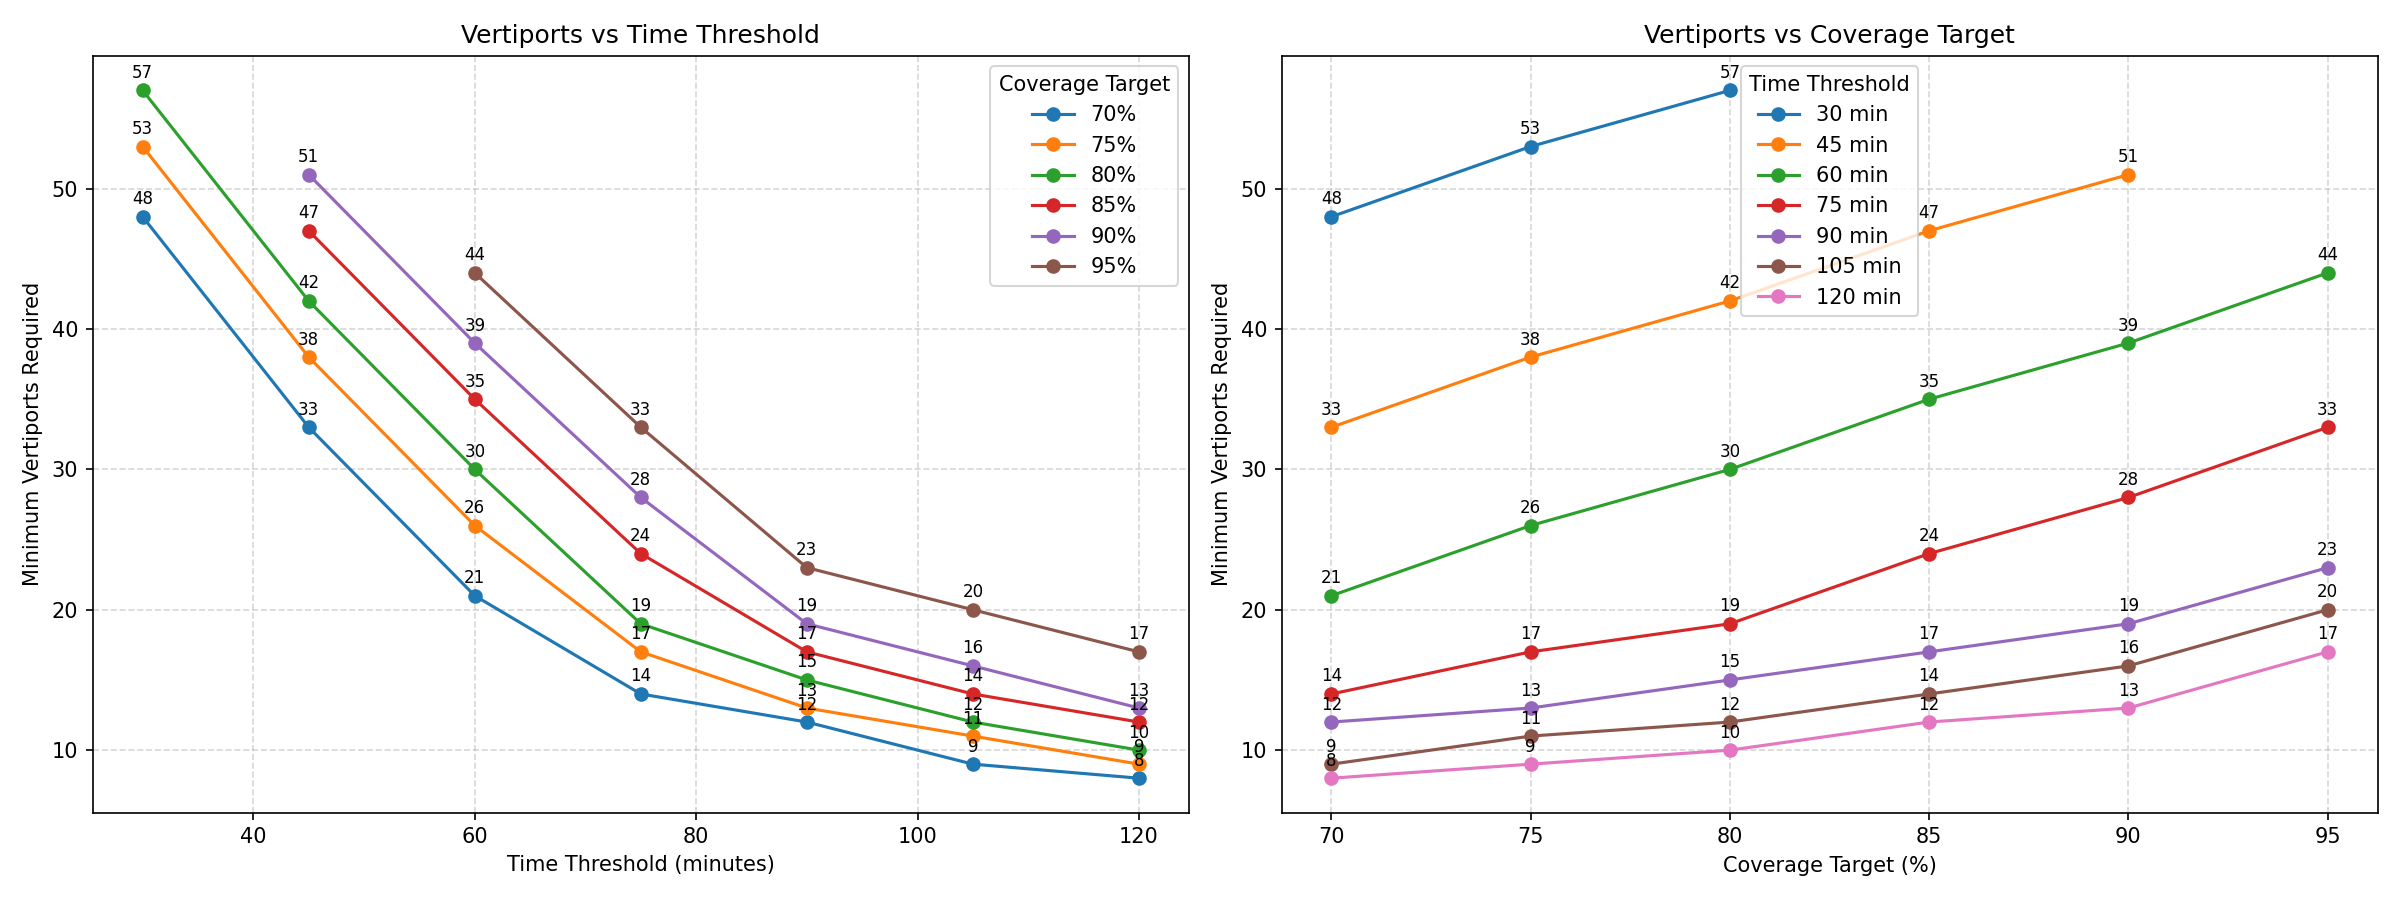
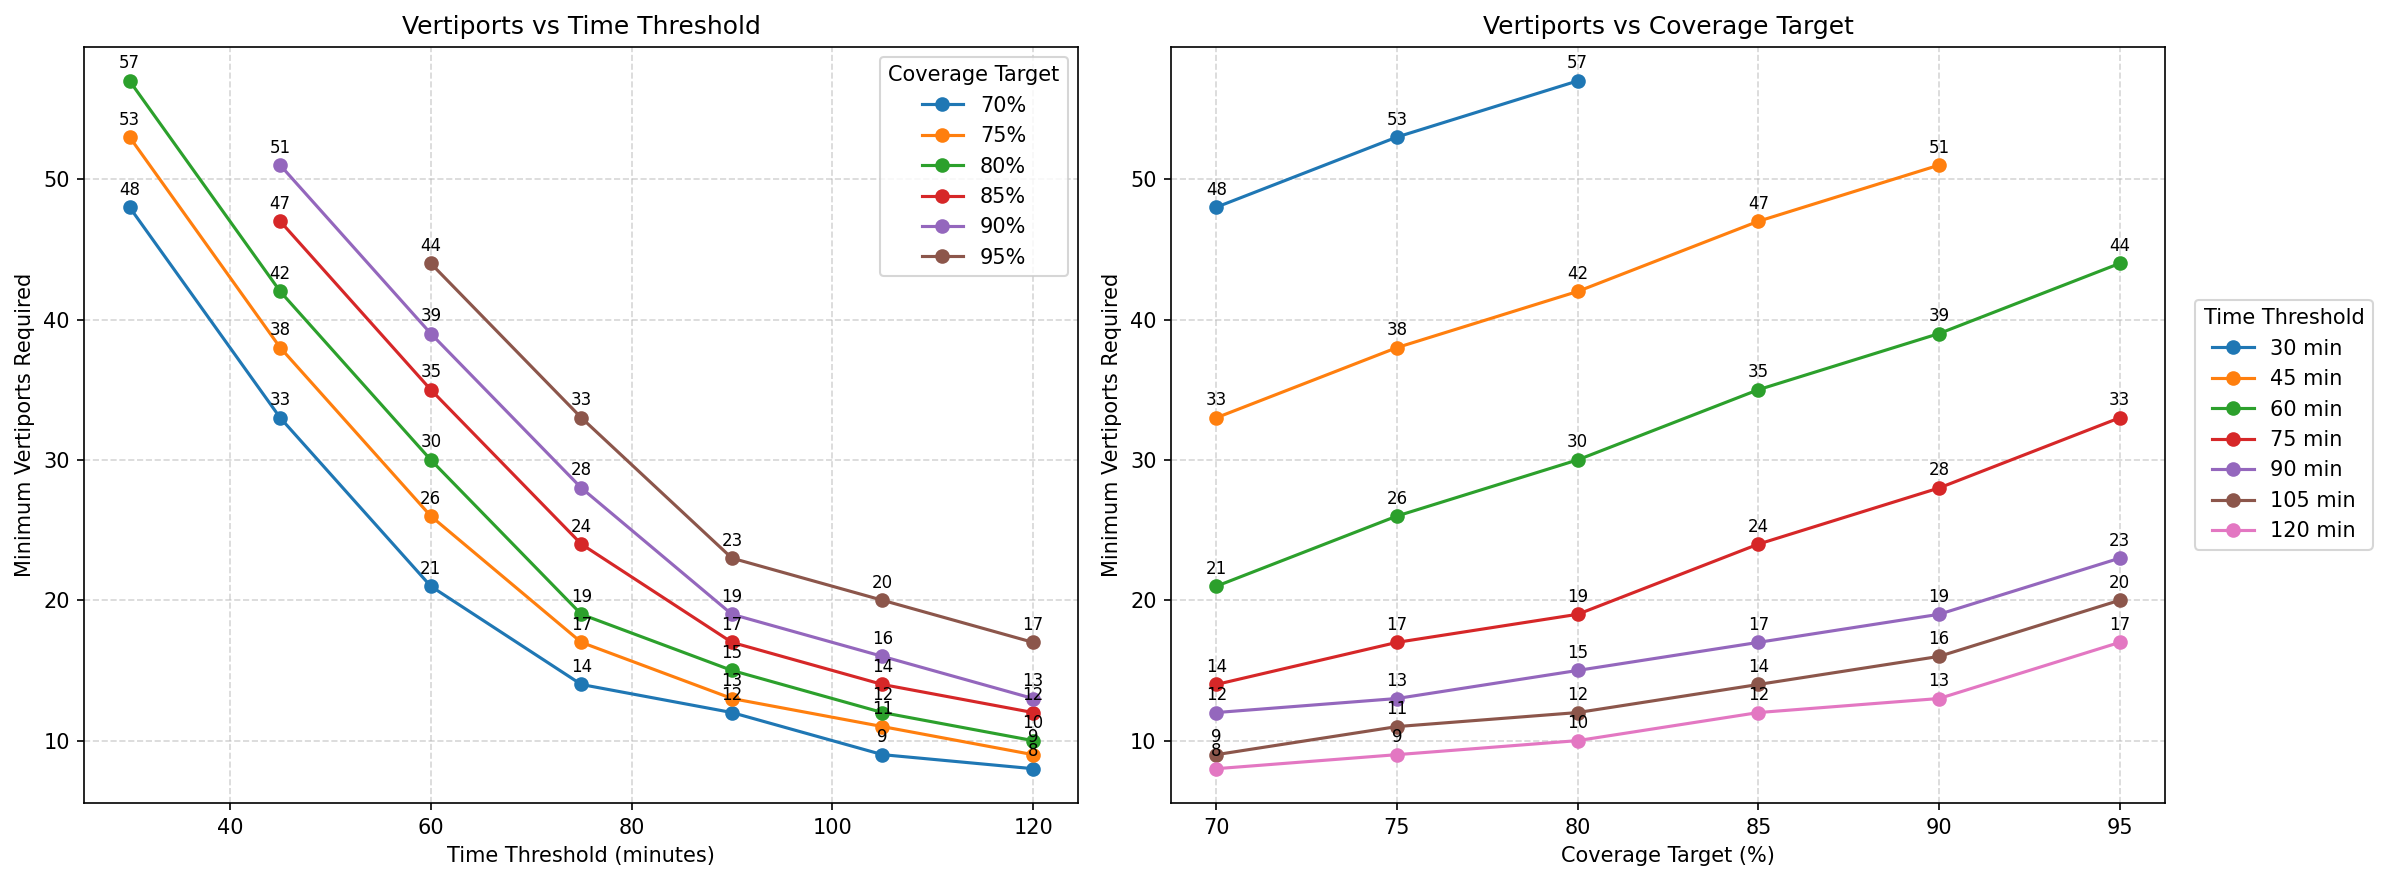
Changed viz

diff --git a/model/Combined Parameters/updated_parametric_model.py b/model/Combined Parameters/updated_parametric_model.py
@@ -146,9 +146,9 @@ air_time = {j: d_ih.loc[j].min() / UAV_SPEED_KMH * 60 for j in candidate_coords}
 
 def build_coverage_matrix(demand_coords, candidate_coords, road_time_lookup, d_ih, UAV_SPEED_KMH, T):
     a = {}
-    for i in demand_coords:
-        for j in candidate_coords:
-            a[i, j] = 1 if road_time_lookup[i, j] + air_time[j] <= T else 0
+    for i in candidate_coords:          # i = vertiport
+        for j in demand_coords:         # j = SA2
+            a[i, j] = 1 if road_time_lookup[j, i] + air_time[i] <= T else 0
     return a
 
 # ─────────────────────────────────────────────────────────────
@@ -212,35 +212,35 @@ def combined_cost(j):
 # ─────────────────────────────────────────────────────────────
 # PYOMO MODEL
 # ─────────────────────────────────────────────────────────────
-
 def run_model(a, demand_coords, candidate_coords, alpha, cost, lam=RISK_LAMBDA):
-    I = list(demand_coords.keys())
-    J = list(candidate_coords.keys())
-    n_req = ceil(alpha * len(I) - 1e-9)        
+    I = list(candidate_coords.keys())   # vertiports
+    J = list(demand_coords.keys())      # SA2s
+    n_req = ceil(alpha * len(J) - 1e-9)
 
     mod = ConcreteModel()
     mod.I = Set(initialize=I)
     mod.J = Set(initialize=J)
-    mod.y = Var(mod.J, domain=Binary)
-    mod.z = Var(mod.I, domain=Binary)
+    mod.y = Var(mod.I, domain=Binary)   # vertiport i is built
+    mod.z = Var(mod.J, domain=Binary)   # SA2 j is covered
 
     mod.obj = Objective(
-        expr=sum(mod.y[j] for j in J) + lam * sum(cost[j] * mod.y[j] for j in J),
+        expr=sum(mod.y[i] for i in I) + lam * sum(cost[i] * mod.y[i] for i in I),
         sense=minimize
     )
 
-    mod.cov = Constraint(mod.I, rule=lambda mod, i:
-        mod.z[i] <= sum(a[i, j] * mod.y[j] for j in J))
+    # SA2 j can only be covered if a selected vertiport reaches it in time
+    mod.cov = Constraint(mod.J, rule=lambda mod, j:
+        mod.z[j] <= sum(a[i, j] * mod.y[i] for i in I))
 
-    mod.demand = Constraint(expr=sum(mod.z[i] for i in I) >= n_req)
+    mod.demand = Constraint(expr=sum(mod.z[j] for j in J) >= n_req)
 
     result = SolverFactory('cbc').solve(mod)
 
     if result.solver.termination_condition == TerminationCondition.optimal:
-        selected  = [j for j in J if value(mod.y[j]) > 0.5]
-        covered   = [i for i in I if any(a[i, j] == 1 for j in selected)]
+        selected  = [i for i in I if value(mod.y[i]) > 0.5]
+        covered   = [j for j in J if any(a[i, j] == 1 for i in selected)]
         cov_set   = set(covered)
-        uncovered = [i for i in I if i not in cov_set]
+        uncovered = [j for j in J if j not in cov_set]
         return 'optimal', selected, covered, uncovered
     else:
         return 'infeasible', [], [], []
@@ -251,7 +251,7 @@ def run_model(a, demand_coords, candidate_coords, alpha, cost, lam=RISK_LAMBDA):
 a = build_coverage_matrix(demand_coords, candidate_coords, road_time_lookup, d_ih, UAV_SPEED_KMH, TIME_THRESHOLD)
 
 cost = {j: combined_cost(j) for j in candidate_coords}
-coverable = [i for i in demand_coords if any(a[i, j] == 1 for j in candidate_coords)]
+coverable = [j for j in demand_coords if any(a[i, j] == 1 for i in candidate_coords)]
 
 print(f"\nMax achievable coverage: {len(coverable)}/{len(demand_coords)} = {len(coverable)/len(demand_coords)*100:.1f}%")
 print(f"Requested coverage: {COVERAGE_THRESHOLD*100}%")
@@ -308,52 +308,85 @@ if lambda_analysis:
             total_risk = sum(cost[j] for j in sel)
             avg_risk   = total_risk / len(sel) if sel else 0
             lambda_results.append({
-                'lambda':      lam,
+                'lambda':       lam,
                 'n_vertiports': len(sel),
-                'total_risk':  round(total_risk, 3),
-                'avg_risk':    round(avg_risk, 3),
-                'status':      'optimal'
+                'total_risk':   round(total_risk, 3),
+                'avg_risk':     round(avg_risk, 3),
+                'status':       'optimal'
             })
             print(f"{lam:<10} {len(sel):>12} {total_risk:>12.3f} {avg_risk:>15.3f}")
         else:
             lambda_results.append({'lambda': lam, 'n_vertiports': None, 'total_risk': None, 'avg_risk': None, 'status': 'infeasible'})
             print(f"{lam:<10} {'INFEASIBLE':>12}")
 
-    fig, axes = plt.subplots(1, 2, figsize=(14, 5))
-
+    # collect feasible results
     feasible = [r for r in lambda_results if r['status'] == 'optimal']
-    lam_vals  = [r['lambda']       for r in feasible]
-    n_ports   = [r['n_vertiports'] for r in feasible]
-    t_risk    = [r['total_risk']   for r in feasible]
+    lam_vals = [r['lambda']       for r in feasible]
+    n_ports  = [r['n_vertiports'] for r in feasible]
+    t_risk   = [r['total_risk']   for r in feasible]
 
-    ax1 = axes[0]
-    ax1.plot(lam_vals, n_ports, marker='o', color='steelblue')
-    for x, y in zip(lam_vals, n_ports):
-        ax1.annotate(str(y), (x, y), textcoords="offset points", xytext=(0, 8), ha='center', fontsize=9)
-    ax1.set_xlabel('Lambda (λ)')
-    ax1.set_ylabel('Minimum Vertiports Required')
-    ax1.set_title('Vertiport Count vs Lambda')
-    ax1.grid(True, linestyle='--', alpha=0.5)
+    x      = np.arange(len(lam_vals))          # even spacing kills low-lambda crowding
+    labels = [f'{l:g}' for l in lam_vals]
 
-    ax2 = axes[1]
-    ax2.plot(lam_vals, t_risk, marker='o', color='firebrick')
-    for x, y in zip(lam_vals, t_risk):
-        ax2.annotate(f"{y:.2f}", (x, y), textcoords="offset points", xytext=(0, 8), ha='center', fontsize=9)
-    ax2.set_xlabel('Lambda (λ)')
-    ax2.set_ylabel('Total Risk of Selected Sites')
-    ax2.set_title('Total Network Risk vs Lambda')
-    ax2.grid(True, linestyle='--', alpha=0.5)
+    fig, (ax1, ax2) = plt.subplots(1, 2, figsize=(15, 5.5))
 
-    plt.suptitle(f'Lambda Sensitivity | T={TIME_THRESHOLD} min | Coverage={COVERAGE_THRESHOLD*100:.0f}%', fontsize=12)
+    # --- Panel 1: count + risk vs lambda on a categorical x-axis ---
+    ax1b = ax1.twinx()
+    l1, = ax1.plot(x, n_ports, 'o-',  color='steelblue', zorder=3, label='Vertiports')
+    l2, = ax1b.plot(x, t_risk, 's--', color='firebrick', zorder=3, label='Total risk')
+
+    ax1.set_xticks(x)
+    ax1.set_xticklabels(labels)
+    ax1.set_xlabel('Risk weight λ (0 = ignore risk)')
+    ax1.set_ylabel('Minimum vertiports', color='steelblue')
+    ax1b.set_ylabel('Total operational risk (0-1 per site, summed)', color='firebrick')
+    ax1.tick_params(axis='y', colors='steelblue')
+    ax1b.tick_params(axis='y', colors='firebrick')
+    ax1.set_ylim(min(n_ports) - 1, max(n_ports) + 1)   # pad so a flat line isn't glued to the frame
+
+    # label the count only when it changes -> no stacked duplicates
+    prev = None
+    for xi, p in zip(x, n_ports):
+        if p != prev:
+            ax1.annotate(str(p), (xi, p), textcoords='offset points',
+                         xytext=(0, 10), ha='center', color='steelblue', fontsize=9)
+        prev = p
+
+    ax1.set_title('Vertiport count and total risk vs λ')
+    ax1.grid(True, linestyle='--', alpha=0.4)
+    ax1.legend(handles=[l1, l2], loc='center left')
+
+    # --- Panel 2: trade-off, one label per distinct (count, risk) outcome ---
+    groups = {}
+    for l, p, rk in zip(lam_vals, n_ports, t_risk):
+        groups.setdefault((p, round(rk, 3)), []).append(l)
+
+    pts = sorted(groups.items(), key=lambda kv: (kv[0][0], -kv[0][1]))   # by count, then risk high->low
+    gx = [p  for (p, rk), _ in pts]
+    gy = [rk for (p, rk), _ in pts]
+    ax2.plot(gx, gy, 'o-', color='seagreen', zorder=3)
+
+    for (p, rk), ls in pts:
+        tag = f'λ={ls[0]:g}' if len(ls) == 1 else f'λ={min(ls):g}–{max(ls):g}'
+        ax2.annotate(tag, (p, rk), textcoords='offset points',
+                     xytext=(8, 8), ha='left', fontsize=9)
+
+    ax2.set_xlabel('Vertiports')
+    ax2.set_ylabel('Total operational risk')
+    ax2.set_title('Trade-off: risk vs vertiport count')
+    ax2.margins(x=0.25, y=0.25)                 # room for corner labels
+    ax2.grid(True, linestyle='--', alpha=0.4)
+
+    plt.suptitle(f'λ sensitivity | T={TIME_THRESHOLD} min | coverage={COVERAGE_THRESHOLD*100:.0f}%', fontsize=12)
     plt.tight_layout()
-    plt.savefig('lambda_sensitivity.png', dpi=150)
+    plt.savefig('lambda_sensitivity.png', dpi=150, bbox_inches='tight')
     plt.show()
     print("Plot saved to lambda_sensitivity.png")
 
 # ─────────────────────────────────────────────────────────────
 # SENSITIVITY ANALYSIS
 # ─────────────────────────────────────────────────────────────
-Run_analysis = False # set to True to run sensitivity analysis
+Run_analysis = True # set to True to run sensitivity analysis
 
 if Run_analysis:
     time_thresholds  = [30, 45, 60, 75, 90, 105, 120]
@@ -394,11 +427,11 @@ if Run_analysis:
     ax2.set_xlabel('Coverage Target (%)')
     ax2.set_ylabel('Minimum Vertiports Required')
     ax2.set_title('Vertiports vs Coverage Target')
-    ax2.legend(title='Time Threshold')
+    ax2.legend(title='Time Threshold', loc='center left', bbox_to_anchor=(1.02, 0.5))    
     ax2.grid(True, linestyle='--', alpha=0.5)
 
     plt.tight_layout()
-    plt.savefig('sensitivity_analysis_combined.png', dpi=150)
+    plt.savefig('sensitivity_analysis_combined.png', dpi=150, bbox_inches='tight')
     plt.show()
     print("Plot saved to sensitivity_analysis_combined.png")
 
